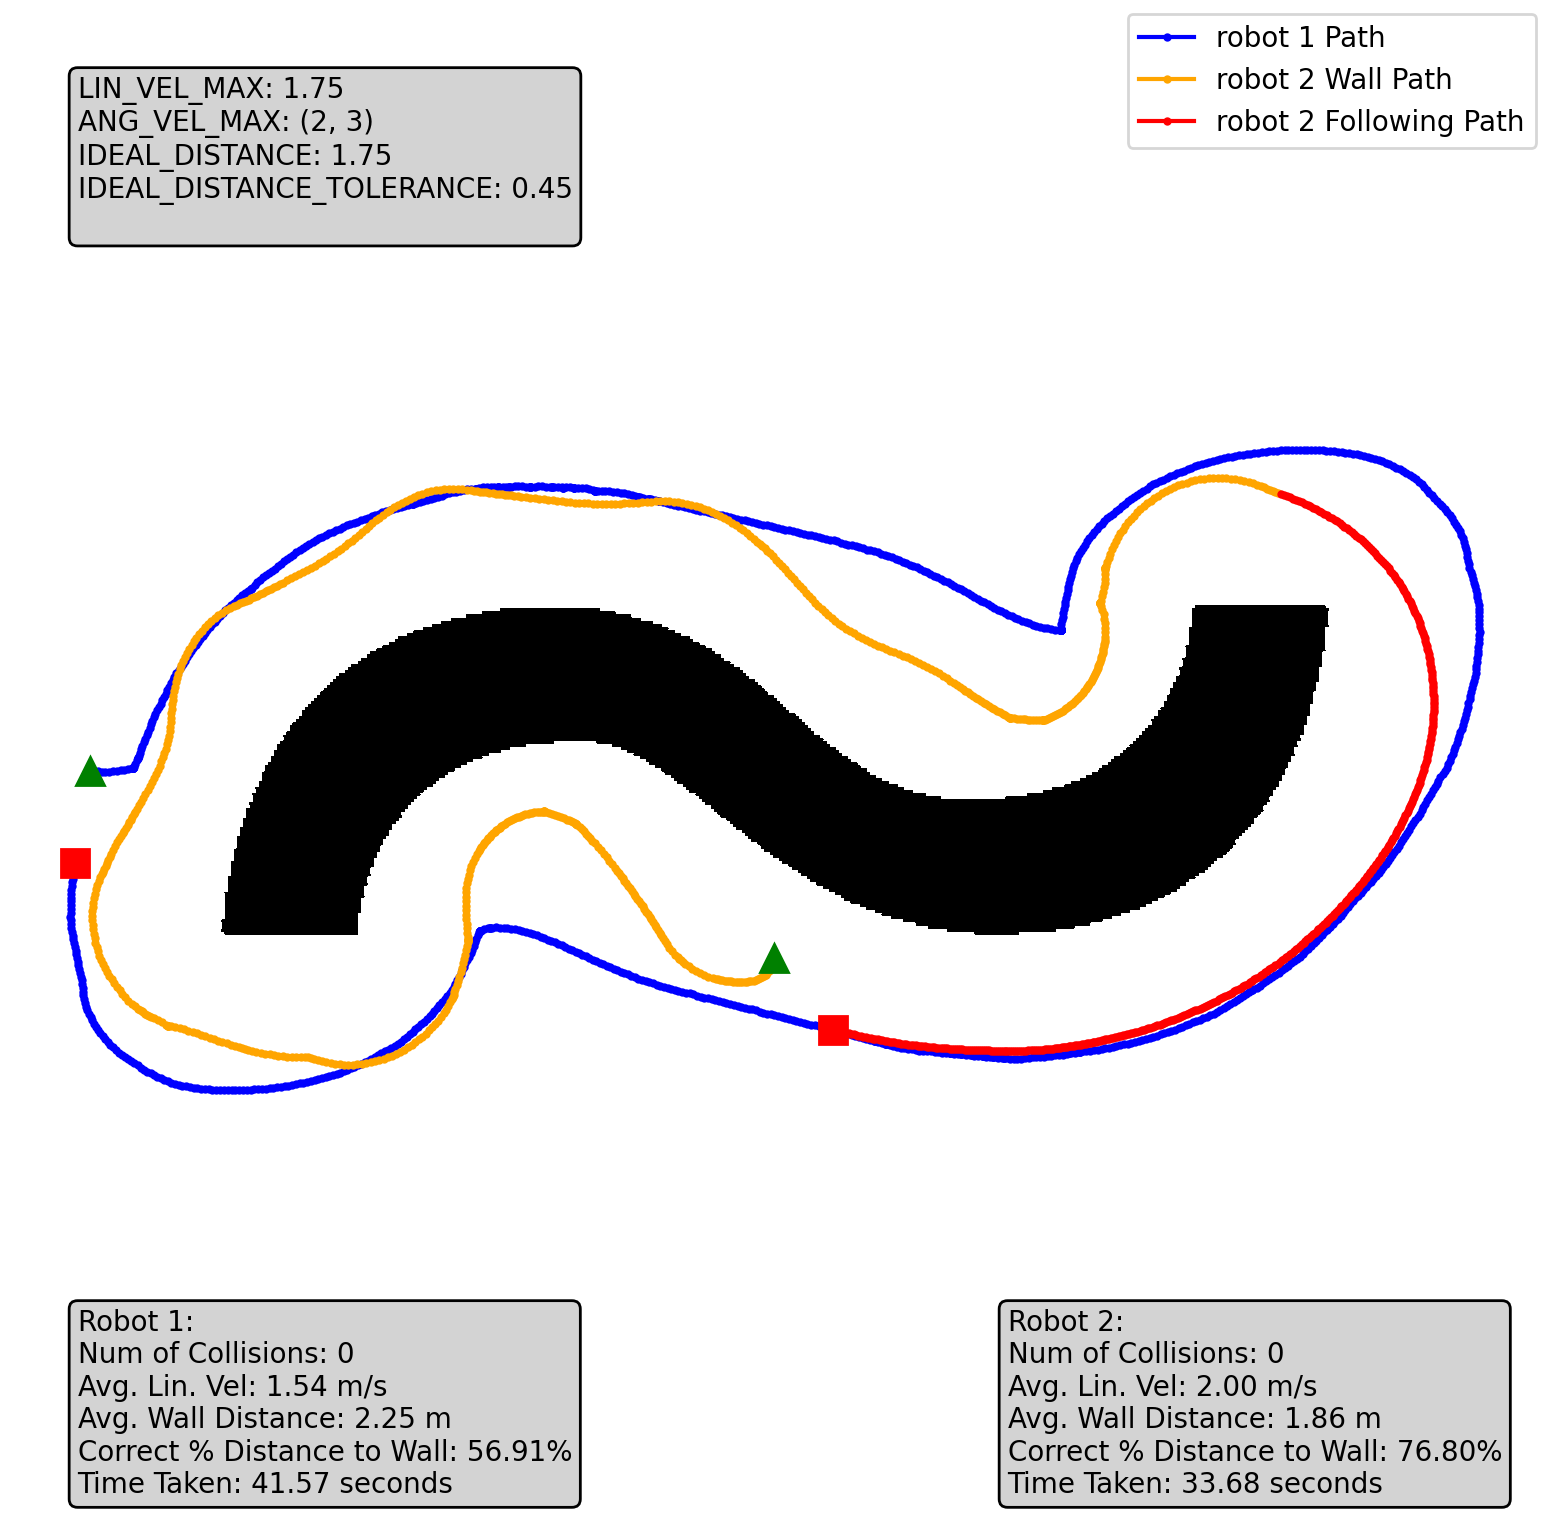
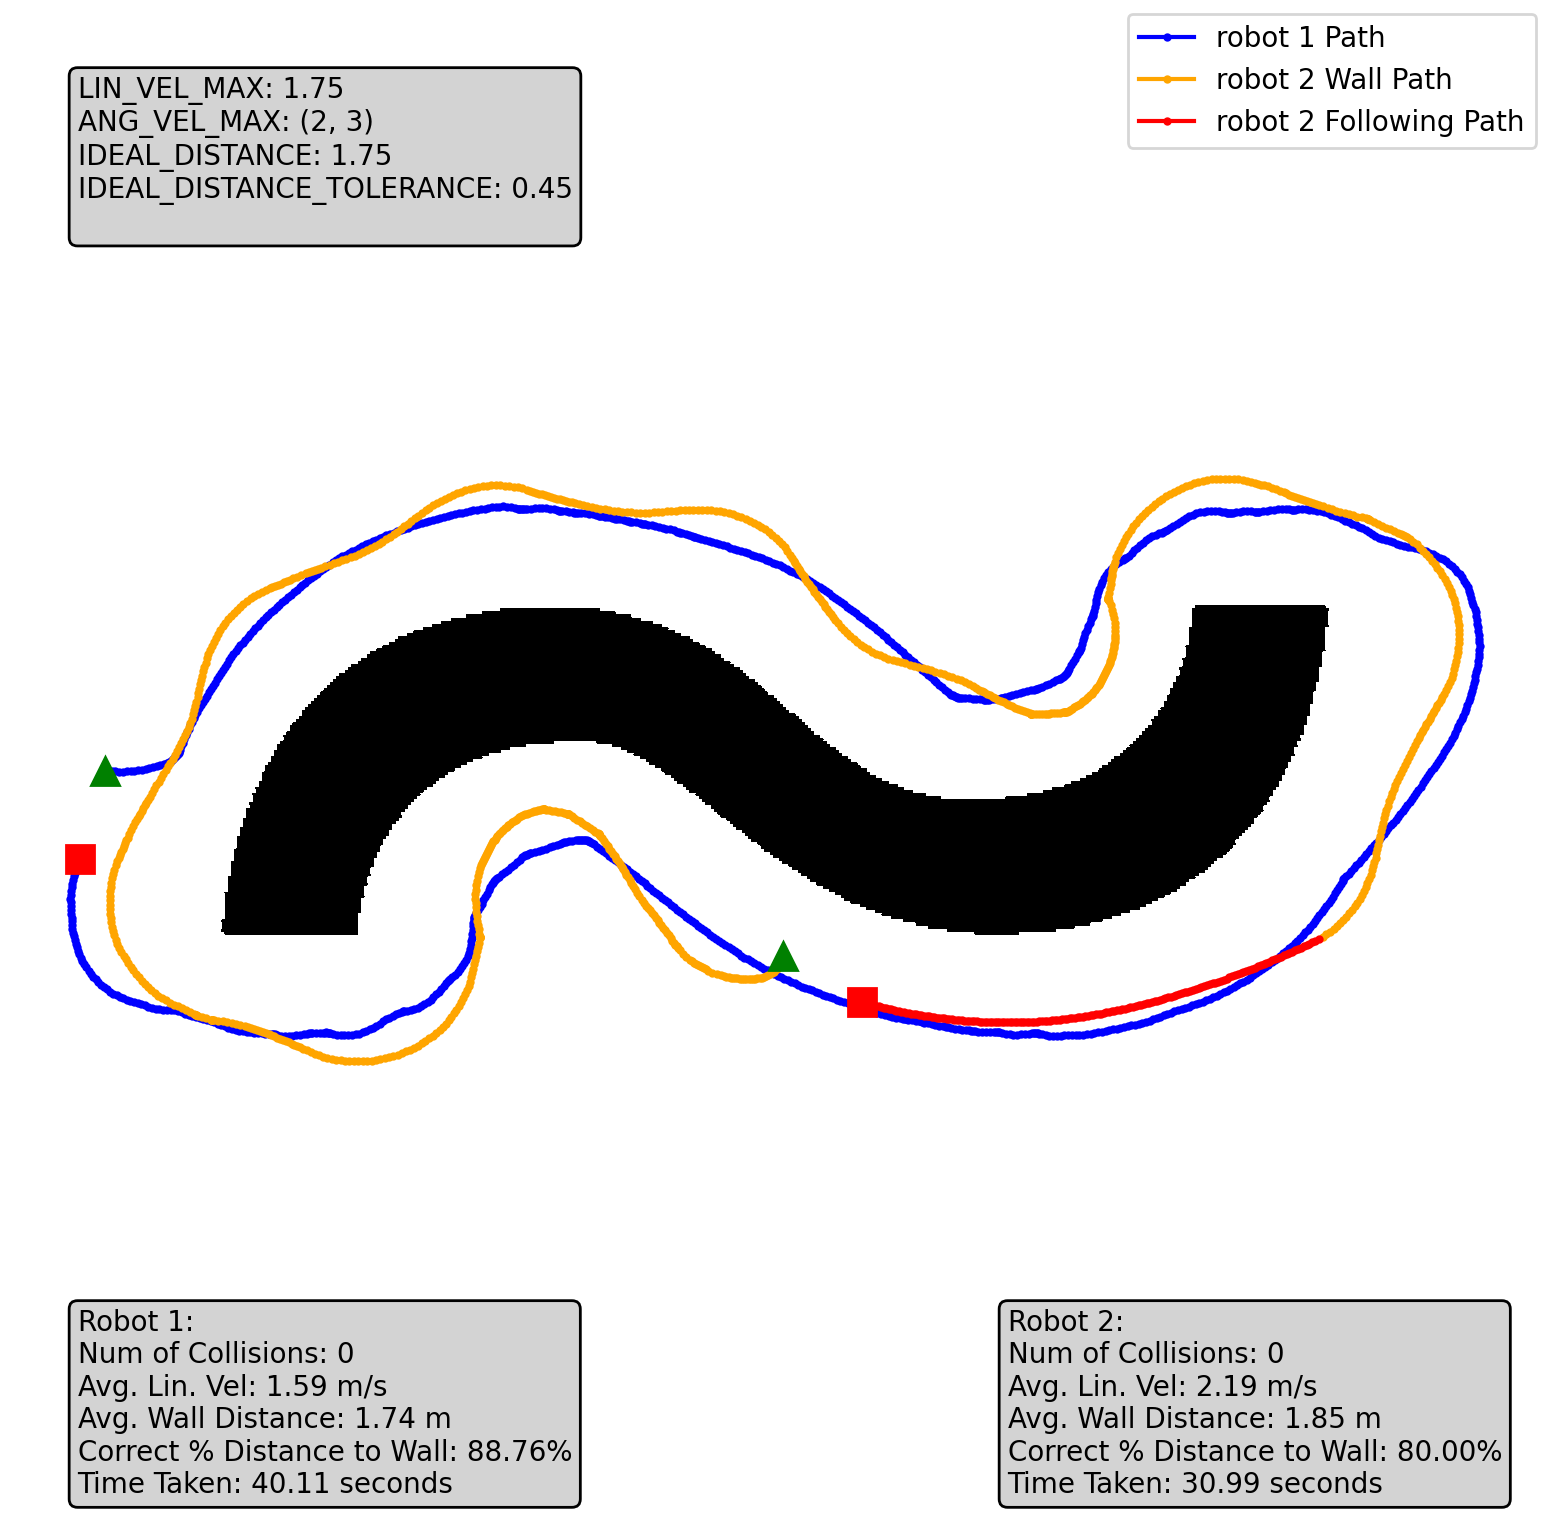
PD Controller now works as good as the basic controller! Maybe some tweaks are still needed

diff --git a/workspace/src/robots/generic_controller.py b/workspace/src/robots/generic_controller.py
@@ -253,12 +253,16 @@ class GenericController(Node):
         right_index = len(self.rays_walls) // 4  # Right side of the robot
         
         # collect all rays between the front and right side of the robot and average them, if they are not inf
-        right_distances = [x for x in self.rays_walls[right_index-1:front_index+1] if x != float('inf')]
+        right_distances = [x for x in self.rays_walls[0:front_index + 1] if x != float('inf')]
         right_front_sector = sum(right_distances) / len(right_distances) if len(right_distances) > 0 else float('inf')
         
+        if right_front_sector == float('inf'):
+            # Rotate left to find the wall
+            return 0.0, ANG_VEL_MAX
+        
         # Initialize proportional and derivative gains
-        Kp = 0.5  # Proportional gain
-        Kd = 1  # Derivative gain
+        Kp = 0.75  # Proportional gain
+        Kd = 1 # Derivative gain
 
         # Calculate the error as the difference between current right distance and ideal distance
         error = abs(IDEAL_DISTANCE - right_front_sector)
@@ -275,8 +279,9 @@ class GenericController(Node):
         angular_vel = -clamp(control, ANG_VEL_MAX)
         
         # Linear velocity based on front distance (slow down if too close to an obstacle)
-        if F_D < IDEAL_DISTANCE+IDEAL_DISTANCE_TOLERANCE or RF_D < IDEAL_DISTANCE+IDEAL_DISTANCE_TOLERANCE:
-            linear_vel = 0.0  # Stop to avoid collision
+        if F_D < IDEAL_DISTANCE or RF_D < IDEAL_DISTANCE:
+            dist = min((F_D), (RF_D))
+            linear_vel = LIN_VEL_MAX * clamp(1 - 1 / dist, 1)
             angular_vel = ANG_VEL_MAX  # Turn left to avoid collision
         else:
             linear_vel = LIN_VEL_MAX

diff --git a/workspace/src/robots/move2.py b/workspace/src/robots/move2.py
@@ -73,7 +73,10 @@ class Move2(GenericController):
             front_distance, right_distance, right_front_distance = self.parse_laser_wall_data()
             
             # Decide what to do based on the wall data
-            linear_speed, angular_speed = self.follow_wall(front_distance, right_distance, right_front_distance)
+            if BASIC_CONTROLLER_2:
+                linear_speed, angular_speed = self.follow_wall(front_distance, right_distance, right_front_distance)
+            else:
+                linear_speed, angular_speed = self.follow_wall_PD(front_distance, right_distance, right_front_distance)
 
         # Publish the decision
         self.pub_vel(linear_speed, angular_speed)

diff --git a/workspace/src/robots/move1.py b/workspace/src/robots/move1.py
@@ -28,7 +28,10 @@ class Move1(GenericController):
         front_distance, right_distance, right_front_distance = self.parse_laser_wall_data()
         
         # Decide what to do based on the wall data
-        linear_speed, angular_speed = self.follow_wall_PD(front_distance, right_distance, right_front_distance)
+        if BASIC_CONTROLLER_1:
+            linear_speed, angular_speed = self.follow_wall(front_distance, right_distance, right_front_distance)
+        else:
+            linear_speed, angular_speed = self.follow_wall_PD(front_distance, right_distance, right_front_distance)
         
         # Publish the decision
         self.pub_vel(linear_speed, angular_speed)

diff --git a/workspace/src/robots/params.py b/workspace/src/robots/params.py
@@ -5,7 +5,10 @@ LOG_MODE = True
 STATISTIC_ANALYSIS = True
 STOP_IF_COLLISION = False
 
-RANDOM_START_POS = False 
+RANDOM_START_POS = False
+
+BASIC_CONTROLLER_1 = False 
+BASIC_CONTROLLER_2 = True
 
 # Robot 2 speficic parameters
 SPEED_DIFF2 = 1.65 # 65% faster in both linear and angular speeds than robot 1
